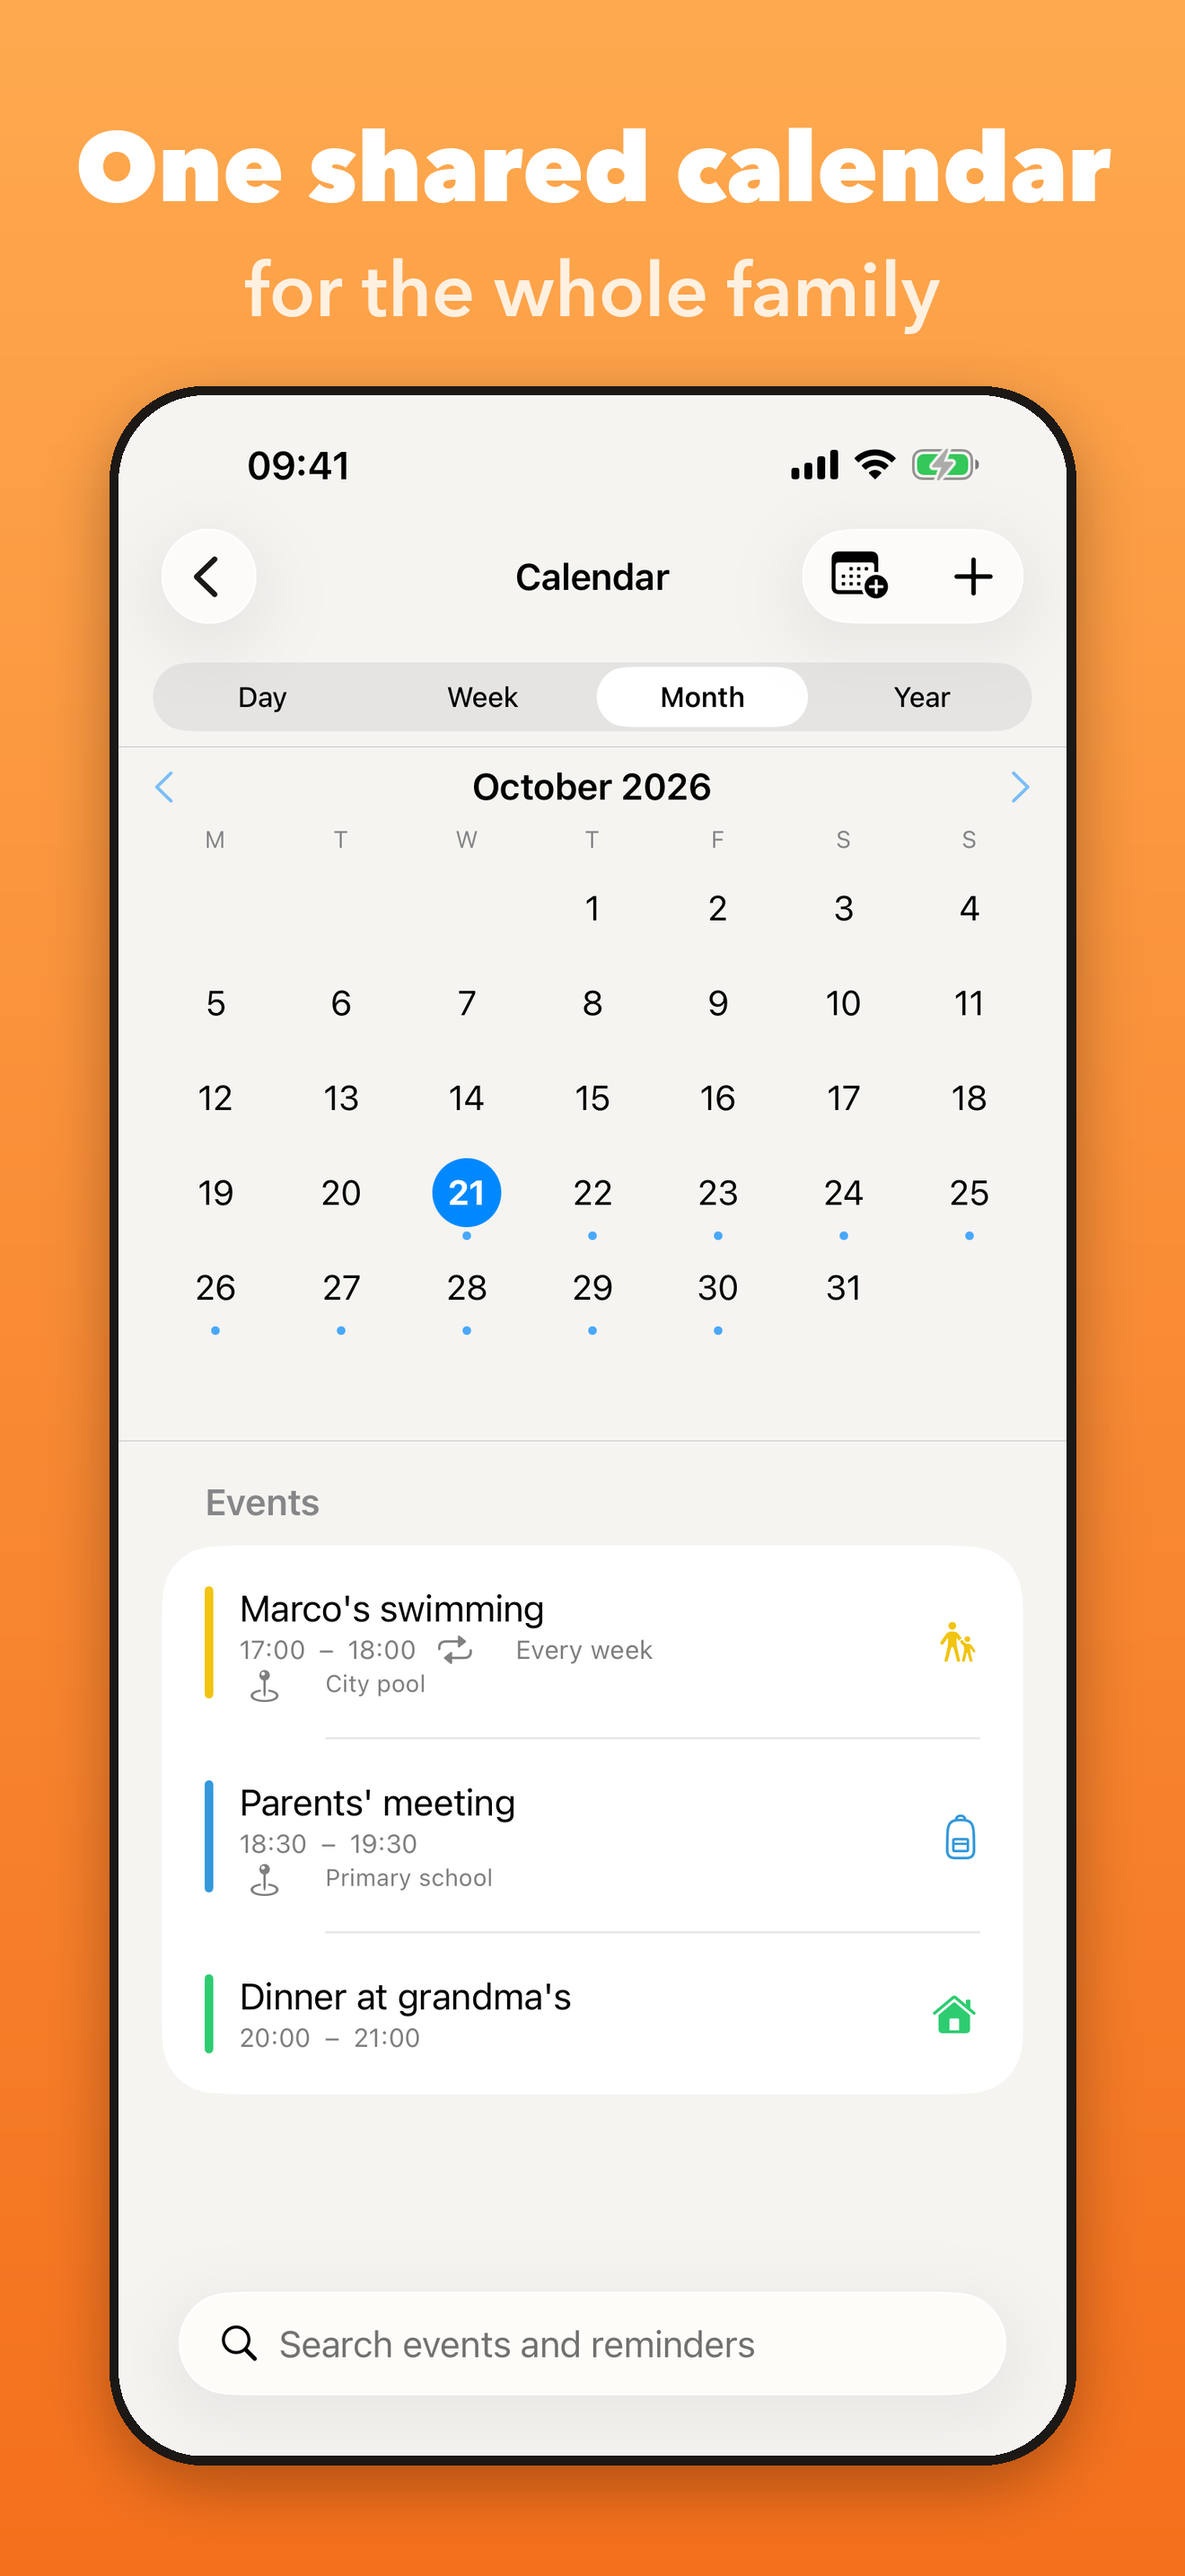
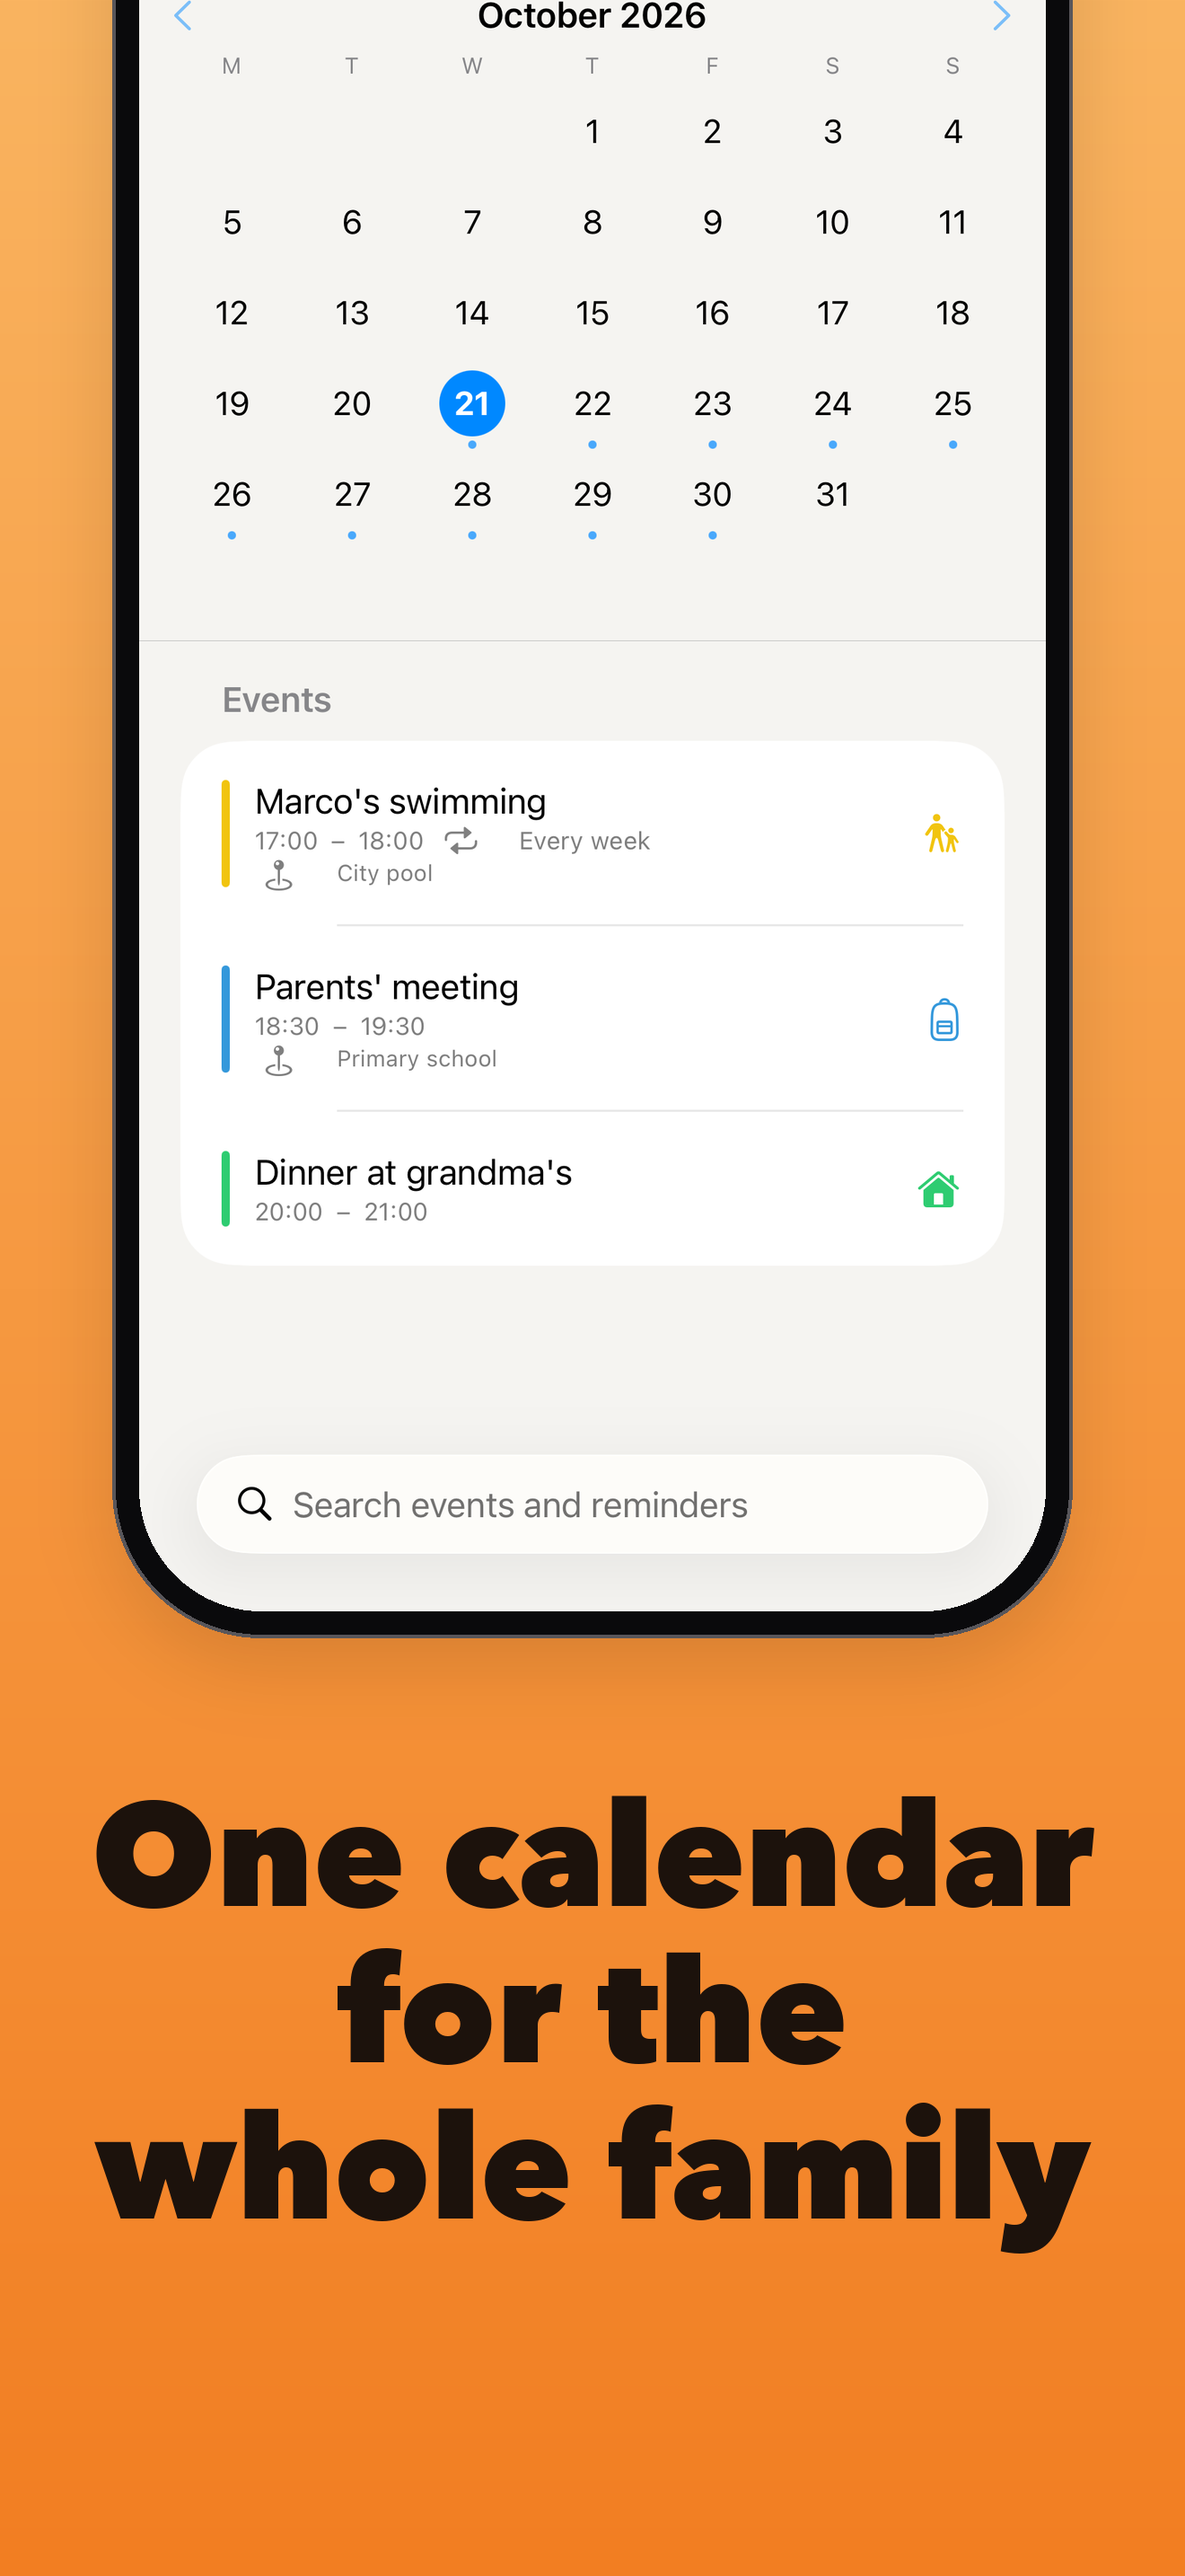
Screenshot App Store iPhone 6,9": cinque per lingua nello stile del set in vendita

diff --git a/internal/store-listings/screenshots/compose.py b/internal/store-listings/screenshots/compose.py
@@ -1,29 +1,52 @@
-"""Compone gli screenshot degli store: didascalia + schermata vera su sfondo KidBox.
+"""Compone gli screenshot degli store nello stile di quelli già in vendita.
 
-Uso: python3 compose.py   (legge raw/<lingua>/NN-*.png, scrive final/<lingua>/NN-*.png, 1320x2868)
+Sfondo arancione sfumato, titolo nero molto grande, telefono con bordo scuro e
+Dynamic Island disegnata (il simulatore non la cattura). Tre disposizioni, come
+nel set attuale: titolo in alto, titolo in basso, telefono inclinato.
+
+Uso: python3 compose.py
+Legge raw/<lingua>/NN-*.png (1320x2868) e scrive final/<lingua>/NN-*.png.
 """
 from PIL import Image, ImageDraw, ImageFont, ImageFilter
-import os
+import os, shutil
 
 W, H = 1320, 2868
-FONT = "/System/Library/Fonts/Avenir Next.ttc"  # indice 0 = Bold, 8 = Heavy
-CAPTIONS = {
-    "it": {"01-home": ("Chi prende Marco?", "Un tocco e la famiglia risponde"),
-           "02-calendar": ("Un calendario", "per tutta la famiglia"),
-           "03-todo": ("Cose da fare assegnate,", "nessuno si dimentica")},
-    "en": {"01-home": ("Who picks Marco up?", "One tap and the family answers"),
-           "02-calendar": ("One shared calendar", "for the whole family"),
-           "03-todo": ("Tasks assigned to each person,", "nothing gets forgotten")},
-    "es": {"01-home": ("¿Quién recoge a Marco?", "Un toque y la familia responde"),
-           "02-calendar": ("Un calendario compartido", "para toda la familia"),
-           "03-todo": ("Tareas asignadas a cada uno,", "nada se olvida")},
-    "fr": {"01-home": ("Qui récupère Marco ?", "Un appui et la famille répond"),
-           "02-calendar": ("Un calendrier partagé", "pour toute la famille"),
-           "03-todo": ("Des tâches assignées à chacun,", "rien n'est oublié")},
-}
+FONT = "/System/Library/Fonts/Avenir Next.ttc"
+HEAVY = 8  # indice «Heavy» nella collezione
 
-def gradient():
-    top, bot = (255, 170, 80), (244, 112, 28)
+# (nome, disposizione, titoli per lingua)
+SLIDES = [
+    ("01-home", "tilt", {
+        "it": "Chi prende Marco giovedì?",
+        "en": "Who picks Marco up on Thursday?",
+        "es": "¿Quién recoge a Marco el jueves?",
+        "fr": "Qui récupère Marco jeudi\u00a0?"}),
+    ("02-calendar", "title-bottom", {
+        "it": "Un calendario per tutta la famiglia",
+        "en": "One calendar for the whole family",
+        "es": "Un calendario para toda la familia",
+        "fr": "Un calendrier pour toute la famille"}),
+    ("03-todo", "title-top", {
+        "it": "Cose da fare assegnate a ognuno",
+        "en": "Tasks assigned to each person",
+        "es": "Tareas asignadas a cada uno",
+        "fr": "Des tâches assignées à chacun"}),
+    ("04-spese", "title-bottom", {
+        "it": "Spese di casa sotto controllo",
+        "en": "Household spending under control",
+        "es": "Los gastos de casa bajo control",
+        "fr": "Les dépenses de la maison maîtrisées"}),
+    ("05-assistant", "title-top", {
+        "it": "Un assistente che conosce la tua famiglia",
+        "en": "An assistant that knows your family",
+        "es": "Un asistente que conoce a tu familia",
+        "fr": "Un assistant qui connaît votre famille"}),
+]
+TITLE_COLOR = (28, 18, 12)
+
+
+def background():
+    top, bot = (250, 180, 96), (242, 126, 34)
     img = Image.new("RGB", (W, H))
     d = ImageDraw.Draw(img)
     for y in range(H):
@@ -31,42 +54,101 @@ def gradient():
         d.line([(0, y), (W, y)], fill=tuple(int(top[i] + (bot[i] - top[i]) * t) for i in range(3)))
     return img
 
-def fit_font(text, size, max_w, index=8):
-    while size > 40:
-        f = ImageFont.truetype(FONT, size, index=index)
-        if f.getlength(text) <= max_w:
-            return f
-        size -= 4
-    return ImageFont.truetype(FONT, 40, index=index)
 
-def compose(lang, name):
-    shot = Image.open(f"raw/{lang}/{name}.png").convert("RGB")
-    bg = gradient()
-    d = ImageDraw.Draw(bg)
-    line1, line2 = CAPTIONS[lang][name]
-    f1 = fit_font(line1, 112, W - 140)
-    f2 = fit_font(line2, 84, W - 140, index=2)
-    d.text((W / 2, 190), line1, font=f1, fill=(255, 255, 255), anchor="mm")
-    d.text((W / 2, 325), line2, font=f2, fill=(255, 240, 224), anchor="mm")
-    scale = 0.80
-    sw, sh = int(W * scale), int(H * scale)
+def phone(shot, width):
+    """Schermata dentro a un telefono: anello grigio, bordo nero, isola."""
+    sw = width
+    sh = int(shot.height * sw / shot.width)
     shot = shot.resize((sw, sh), Image.LANCZOS)
+    bezel = int(width * 0.026)
+    ring = max(3, int(width * 0.004))
+    radius = int(width * 0.135)
+    ow, oh = sw + 2 * (bezel + ring), sh + 2 * (bezel + ring)
+    out = Image.new("RGBA", (ow, oh), (0, 0, 0, 0))
+    d = ImageDraw.Draw(out)
+    d.rounded_rectangle([0, 0, ow - 1, oh - 1], radius=radius + bezel + ring, fill=(88, 86, 90, 255))
+    d.rounded_rectangle([ring, ring, ow - 1 - ring, oh - 1 - ring], radius=radius + bezel, fill=(10, 10, 12, 255))
     mask = Image.new("L", (sw, sh), 0)
-    ImageDraw.Draw(mask).rounded_rectangle([0, 0, sw, sh], radius=96, fill=255)
-    x, y = (W - sw) // 2, 440
-    shadow = Image.new("RGBA", (W, H), (0, 0, 0, 0))
-    ImageDraw.Draw(shadow).rounded_rectangle([x, y + 24, x + sw, y + sh + 24], radius=96, fill=(90, 30, 0, 110))
-    shadow = shadow.filter(ImageFilter.GaussianBlur(36))
-    bg.paste(shadow, (0, 0), shadow)
-    # bordo scuro sottile come il telaio del telefono
-    frame = Image.new("RGBA", (W, H), (0, 0, 0, 0))
-    ImageDraw.Draw(frame).rounded_rectangle([x - 10, y - 10, x + sw + 10, y + sh + 10], radius=104, fill=(28, 24, 22, 255))
-    bg.paste(frame, (0, 0), frame)
-    bg.paste(shot, (x, y), mask)
-    os.makedirs(f"final/{lang}", exist_ok=True)
-    bg.save(f"final/{lang}/{name}.png")
+    ImageDraw.Draw(mask).rounded_rectangle([0, 0, sw - 1, sh - 1], radius=radius, fill=255)
+    out.paste(shot, (bezel + ring, bezel + ring), mask)
+    iw, ih = int(sw * 0.29), int(sw * 0.088)
+    ix = (ow - iw) // 2
+    iy = bezel + ring + int(sw * 0.026)
+    d.rounded_rectangle([ix, iy, ix + iw, iy + ih], radius=ih // 2, fill=(0, 0, 0, 255))
+    return out
 
-for lang in CAPTIONS:
-    for name in CAPTIONS[lang]:
-        compose(lang, name)
+
+def wrap(text, font, max_w):
+    lines, cur = [], ""
+    for word in text.split(" "):
+        t = (cur + " " + word).strip()
+        if font.getlength(t) <= max_w or not cur:
+            cur = t
+        else:
+            lines.append(cur)
+            cur = word
+    lines.append(cur)
+    return lines
+
+
+def fit(text, max_w, max_lines, start=168):
+    size = start
+    while size > 70:
+        f = ImageFont.truetype(FONT, size, index=HEAVY)
+        lines = wrap(text, f, max_w)
+        if len(lines) <= max_lines and all(f.getlength(l) <= max_w for l in lines):
+            return f, lines
+        size -= 6
+    f = ImageFont.truetype(FONT, 70, index=HEAVY)
+    return f, wrap(text, f, max_w)
+
+
+def draw_title(img, text, y, align="center", max_lines=3, max_w=1120, x=None):
+    f, lines = fit(text, max_w, max_lines)
+    d = ImageDraw.Draw(img)
+    lh = int(f.size * 1.08)
+    for i, line in enumerate(lines):
+        if align == "center":
+            d.text((W / 2, y + i * lh), line, font=f, fill=TITLE_COLOR, anchor="ma")
+        else:
+            d.text((x if x is not None else 84, y + i * lh), line, font=f, fill=TITLE_COLOR, anchor="la")
+    return lh * len(lines)
+
+
+def shadowed(base, im, pos, blur=40, dy=30, alpha=90):
+    sh = Image.new("RGBA", base.size, (0, 0, 0, 0))
+    a = im.split()[3].point(lambda v: min(v, alpha))
+    tmp = Image.new("RGBA", im.size, (60, 20, 0, 255))
+    tmp.putalpha(a)
+    sh.paste(tmp, (pos[0], pos[1] + dy), tmp)
+    sh = sh.filter(ImageFilter.GaussianBlur(blur))
+    base.paste(sh, (0, 0), sh)
+    base.paste(im, pos, im)
+
+
+def compose(lang, name, layout, title):
+    shot = Image.open(f"raw/{lang}/{name}.png").convert("RGB")
+    img = background()
+    if layout == "title-top":
+        h = draw_title(img, title, 150, "center", 3)
+        ph = phone(shot, 1010)
+        shadowed(img, ph, ((W - ph.width) // 2, 150 + h + 90))
+    elif layout == "title-bottom":
+        ph = phone(shot, 1010)
+        shadowed(img, ph, ((W - ph.width) // 2, -430))
+        draw_title(img, title, 1960, "center", 3)
+    else:  # tilt
+        ph = phone(shot, 960)
+        ph = ph.rotate(-9, resample=Image.BICUBIC, expand=True)
+        shadowed(img, ph, (W - ph.width + 140, -300))
+        draw_title(img, title, 1960, "left", 3, max_w=1150, x=84)
+    os.makedirs(f"final/{lang}", exist_ok=True)
+    img.save(f"final/{lang}/{name}.png")
+
+
+if os.path.isdir("final"):
+    shutil.rmtree("final")
+for lang in ("it", "en", "es", "fr"):
+    for name, layout, titles in SLIDES:
+        compose(lang, name, layout, titles[lang])
 print("ok")

diff --git a/internal/store-listings/README.md b/internal/store-listings/README.md
@@ -84,8 +84,9 @@ si era perso coi cambi di versione); riscritto su iOS 2.4.1, Mac 2.4.0 e Mac
 
 ## Screenshot degli store (iOS, 6,9")
 
-`screenshots/final/<it|en|es|fr>/01-home.png`, `02-calendar.png`, `03-todo.png`:
-1320×2868, didascalia + schermata vera. Le schermate grezze sono in `raw/`, la
+`screenshots/final/<it|en|es|fr>/01-home.png` … `05-assistant.png` (home con richiesta,
+calendario, to-do, spese, assistente): 1320×2868, nello stile del set già in vendita
+(sfondo arancione, titolo nero molto grande, telefono con isola disegnata). Le schermate grezze sono in `raw/`, la
 composizione è `screenshots/compose.py` (didascalie nel dizionario in testa).
 Come si rifanno: build di sviluppo nel simulatore iPhone 17 Pro Max con
 `-KBDemoSeed -KBDemoReset -KBDemoLang <lingua> -KBDemoHero screenshots/famiglia.jpg
@@ -94,4 +95,5 @@ Orologio 9:41 con `xcrun simctl status_bar … override`. Build ad-hoc firmata
 (`CODE_SIGN_IDENTITY=- CODE_SIGNING_REQUIRED=NO`), altrimenti manca l'App Group;
 serve anche `Library/Application Support` nel container del gruppo. Regole di
 Apple sulle immagini: niente prezzi, URL, altre piattaforme né riconoscimenti.
+Per l'assistente serve `defaults write … kb_ai_is_enabled -bool true` nel simulatore.
 **Non ancora caricati su App Store Connect.**
